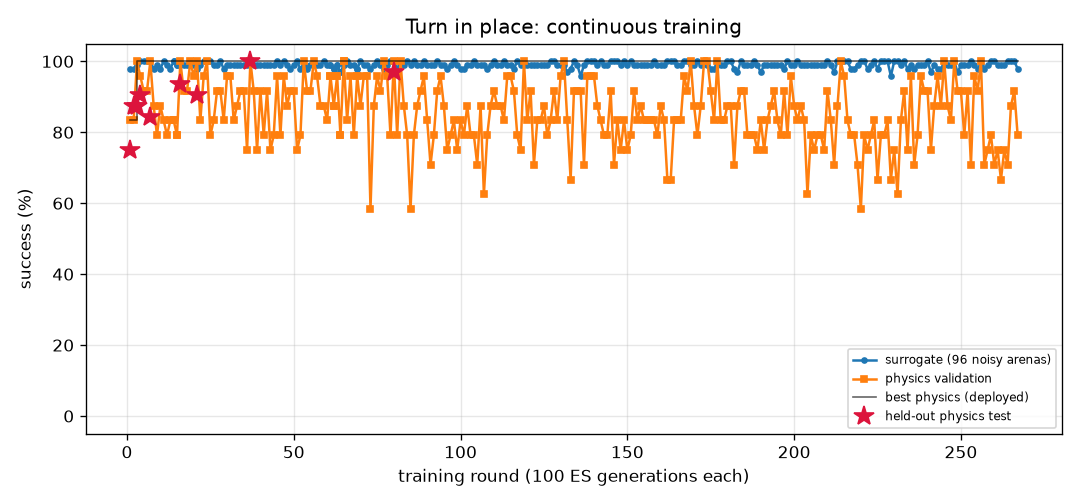
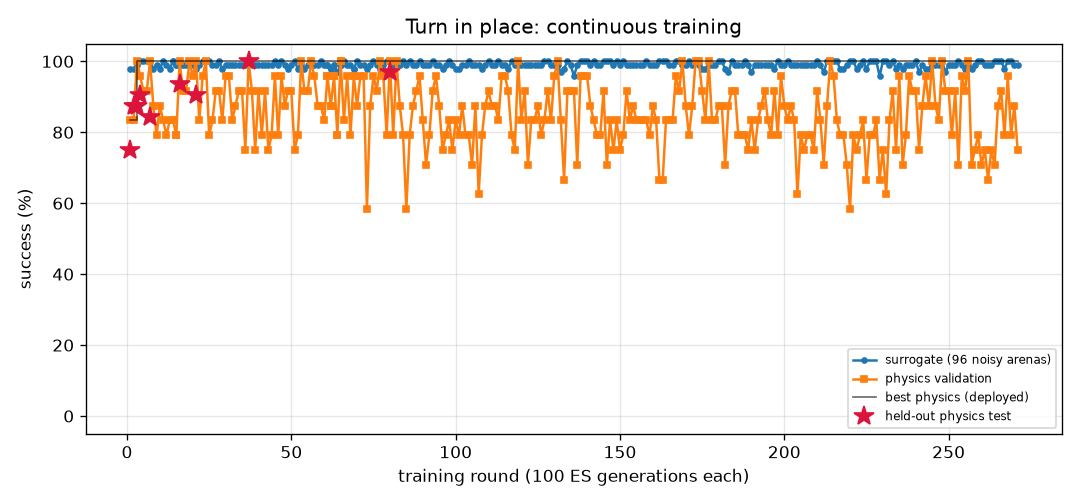
FlyLab: continuous training progress
- walk_forward: optimal, physics val 100% of 24, round 72
- turn: optimal, physics val 100% of 24, round 271
- goto: optimal, physics val 100% of 24, round 67
- odor_seek: optimal, physics val 100% of 24, round 81
- odor_avoid: optimal, physics val 100% of 24, round 366
- light_seek: optimal, physics val 100% of 24, round 249
- light_avoid: optimal, physics val 100% of 24, round 149

diff --git a/projects/09_flylab/training/odor_avoid/REPORT.md b/projects/09_flylab/training/odor_avoid/REPORT.md
@@ -1,14 +1,14 @@
 # Escape a bad smell (`odor_avoid`) — training report
 
-*Auto-generated by `train_brains.py`, last updated 2026-10-09T21:15:25.*
+*Auto-generated by `train_brains.py`, last updated 2026-10-09T22:04:06.*
 
 ![curve](curve.png)
 
 | | |
 |---|---|
-| rounds | 359 |
-| ES generations | 35900 |
-| physics runs | 5858 |
+| rounds | 366 |
+| ES generations | 36600 |
+| physics runs | 6058 |
 | status | **optimal** |
 | best brain | round 352: physics validation **100%** on 24 arenas, surrogate 98% |
 | held-out physics test | **100%** on 32 unseen arenas (95% CI 89%-100%) (errors: [61.0, 57.0, 61.4, 59.6, 56.8, 61.2, 61.2, 60.8, 57.0, 60.5, 60.6, 56.7, 59.9, 61.1, 61.5, 59.8, 60.1, 54.8, 60.0, 54.0, 61.3, 60.1, 57.6, 61.3, 59.5, 56.5, 55.1, 44.6, 56.4, 58.2, 60.2, 19.1]) |
@@ -17,13 +17,6 @@ Physics error per arena: mm gained away from source (> 6 without first approachi
 
 | round | level | gens | sigma | surrogate | physics val | val errors | test | note |
 |---:|---:|---:|---:|---:|---:|---|---:|---|
-| 320 | 3 | 32000 | 0.025 | 93% | 100% | [60.7, 59.0, 55.6, 56.8, 61.1, 57.6, 59.6, 8.3, 60.0, 58.6, 60.7, 61.0, 54.3, 55.4, 42.5, 60.4, 60.8, 59.6, 54.5, 54.4, 61.0, 35.5, 57.6, 30.8] |  |  |
-| 321 | 3 | 32100 | 0.028 | 95% | 96% | [60.5, 57.6, 54.1, 57.6, 59.6, 59.8, 58.8, 24.9, 60.1, 36.7, 57.6, 58.6, 50.2, 53.5, 34.6, 55.5, 58.8, 57.2, 48.2, 55.5, 58.2, 49.1, 57.9, 50.2] |  |  |
-| 322 | 3 | 32200 | 0.027 | 95% | 100% | [58.6, 54.4, 53.6, 58.5, 58.4, 58.0, 59.6, 57.2, 59.5, 58.4, 52.7, 58.5, 46.4, 51.6, 8.6, 58.7, 58.8, 57.3, 49.9, 57.3, 58.8, 57.0, 57.1, 58.3] |  |  |
-| 323 | 3 | 32300 | 0.027 | 93% | 96% | [58.9, 54.5, 53.5, 57.9, 55.3, 50.0, 59.8, 39.3, 60.0, 38.8, 3.3, 59.0, 49.4, 53.1, 28.3, 52.6, 58.5, 43.0, 50.1, 53.5, 59.1, 55.7, 57.3, 57.8] |  | restart from best |
-| 324 | 3 | 32400 | 0.025 | 95% | 96% | [60.3, 59.6, 55.6, 56.8, 54.6, 57.8, 60.5, 19.8, 61.5, 43.3, 8.9, 60.8, 51.8, 54.1, 19.0, 61.0, 61.1, 58.6, 52.5, 59.3, 61.1, 59.5, 59.7, 60.8] |  |  |
-| 325 | 3 | 32500 | 0.027 | 95% | 100% | [62.4, 56.9, 56.3, 59.6, 61.5, 61.9, 60.4, 60.8, 61.3, 61.5, 60.7, 61.3, 46.6, 56.9, 45.8, 61.7, 61.5, 61.9, 54.5, 59.5, 61.1, 61.7, 59.5, 61.9] |  |  |
-| 326 | 3 | 32600 | 0.027 | 96% | 96% | [63.0, 60.6, 57.5, 59.8, 61.5, 62.5, 60.7, 61.7, 61.5, 61.4, 61.0, 61.4, 53.4, 58.1, 43.0, 61.8, 61.7, 62.3, 54.7, 59.5, 61.5, 62.0, 59.6, 62.5] |  |  |
 | 327 | 3 | 32700 | 0.026 | 97% | 96% | [61.6, 55.4, 58.0, 58.7, 61.0, 62.5, 60.1, 60.1, 61.7, 61.6, 59.4, 60.0, 51.2, 56.6, 39.1, 61.5, 59.1, 61.6, 52.4, 55.6, 59.8, 61.9, 59.4, 61.7] |  | restart from best |
 | 328 | 3 | 32800 | 0.025 | 96% | 96% | [63.2, 61.2, 56.5, 59.1, 61.3, 62.5, 61.0, 56.4, 60.5, 62.1, 62.0, 61.8, 52.9, 56.5, 40.3, 61.8, 61.9, 62.2, 54.9, 61.0, 61.6, 61.3, 58.1, 61.6] |  |  |
 | 329 | 3 | 32900 | 0.026 | 94% | 100% | [63.1, 60.6, 54.1, 58.0, 59.1, 60.5, 62.0, 44.4, 60.2, 50.1, 48.9, 62.0, 47.9, 53.6, 35.2, 61.7, 61.5, 61.7, 51.0, 57.6, 61.4, 60.8, 55.8, 61.1] |  |  |
@@ -57,3 +50,10 @@ Physics error per arena: mm gained away from source (> 6 without first approachi
 | 357 | 3 | 35700 | 0.025 | 94% | 100% | [60.8, 60.5, 55.9, 59.4, 62.1, 61.8, 61.0, 61.5, 61.4, 50.8, 61.3, 61.4, 54.7, 56.4, 50.1, 61.3, 61.8, 61.1, 54.5, 59.5, 61.8, 62.3, 59.4, 61.7] |  |  |
 | 358 | 3 | 35800 | 0.028 | 96% | 96% | [60.6, 60.1, 55.6, 59.1, 61.0, 61.0, 60.5, 19.9, 61.6, 23.1, 56.4, 61.1, 51.0, 55.6, 26.9, 61.1, 61.0, 53.9, 51.1, 59.6, 61.6, 48.2, 56.5, 33.8] |  |  |
 | 359 | 3 | 35900 | 0.026 | 95% | 96% | [60.0, 59.7, 55.1, 59.6, 59.6, 58.4, 60.6, 60.4, 60.4, 59.2, 36.1, 60.4, 33.6, 52.4, 35.7, 53.5, 60.5, 59.7, 49.5, 59.4, 60.3, 60.1, 59.9, 60.4] |  |  |
+| 360 | 3 | 36000 | 0.027 | 99% | 96% | [58.2, 55.6, 54.2, 55.4, 58.9, 54.3, 58.1, 50.5, 58.8, 43.9, 30.6, 59.3, 47.8, 53.3, 39.6, 58.9, 59.3, 41.7, 51.3, 53.7, 59.1, 55.8, 52.1, 56.0] |  | restart from best |
+| 361 | 3 | 36100 | 0.025 | 96% | 100% | [62.4, 59.3, 56.5, 59.5, 62.1, 61.5, 60.6, 54.1, 61.1, 61.8, 60.7, 61.8, 55.1, 56.5, 51.1, 61.8, 61.6, 61.6, 55.1, 55.7, 61.6, 59.8, 58.1, 62.3] |  |  |
+| 362 | 3 | 36200 | 0.026 | 97% | 96% | [61.9, 60.6, 56.1, 61.0, 60.4, 61.0, 60.8, 60.3, 61.4, 61.5, 56.6, 61.1, 46.3, 53.0, 39.8, 61.1, 61.9, 61.7, 48.7, 60.4, 61.7, 61.8, 60.9, 61.7] |  |  |
+| 363 | 3 | 36300 | 0.026 | 97% | 96% | [62.0, 60.0, 56.4, 60.5, 62.1, 60.4, 60.0, 56.8, 61.8, 60.4, 59.8, 61.2, 51.0, 54.3, 46.5, 61.8, 61.8, 60.3, 53.8, 59.2, 61.8, 61.7, 59.4, 61.4] |  |  |
+| 364 | 3 | 36400 | 0.026 | 95% | 100% | [62.2, 60.0, 56.4, 58.5, 62.2, 61.8, 61.1, 60.2, 60.4, 61.0, 61.8, 61.5, 51.5, 56.4, 51.8, 62.1, 62.2, 62.3, 51.1, 56.8, 62.2, 61.8, 57.2, 52.7] |  | restart from best |
+| 365 | 3 | 36500 | 0.025 | 95% | 100% | [60.4, 60.0, 56.1, 60.0, 59.1, 59.9, 60.9, 59.1, 60.9, 50.8, 39.9, 60.9, 50.0, 51.7, 26.1, 60.3, 60.9, 60.8, 50.6, 57.8, 60.7, 60.2, 60.4, 60.3] | 97% |  |
+| 366 | 3 | 36600 | 0.025 | 96% | 96% | [61.9, 56.9, 55.8, 59.7, 60.5, 62.0, 60.7, 57.8, 61.3, 36.7, 58.6, 61.2, 51.6, 55.7, 27.9, 61.4, 61.5, 61.7, 55.3, 59.3, 61.6, 59.3, 59.5, 60.8] |  |  |

diff --git a/projects/09_flylab/training/light_avoid/REPORT.md b/projects/09_flylab/training/light_avoid/REPORT.md
@@ -1,14 +1,14 @@
 # Hide from light (`light_avoid`) — training report
 
-*Auto-generated by `train_brains.py`, last updated 2026-10-08T21:47:19.*
+*Auto-generated by `train_brains.py`, last updated 2026-10-09T22:11:09.*
 
 ![curve](curve.png)
 
 | | |
 |---|---|
-| rounds | 143 |
-| ES generations | 14300 |
-| physics runs | 3672 |
+| rounds | 149 |
+| ES generations | 14900 |
+| physics runs | 3816 |
 | status | **optimal** |
 | best brain | round 45: physics validation **100%** on 24 arenas, surrogate 100% |
 | held-out physics test | **100%** on 32 unseen arenas (95% CI 89%-100%) (errors: [14.4, 28.9, 31.6, 32.2, 31.9, 13.9, 14.5, 34.1, 33.7, 13.3, 14.0, 31.3, 31.1, 13.1, 32.4, 33.8, 32.9, 32.2, 31.7, 32.0, 29.0, 12.3, 31.9, 33.2, 14.2, 13.7, 33.6, 32.5, 33.2, 13.2, 28.1, 33.7]) |
@@ -17,12 +17,6 @@ Physics error per arena: mm gained away from source (> 6 without first approachi
 
 | round | level | gens | sigma | surrogate | physics val | val errors | test | note |
 |---:|---:|---:|---:|---:|---:|---|---:|---|
-| 104 | 3 | 10400 | 0.024 | 100% | 100% | [46.0, 47.2, 46.7, 47.3, 51.1, 46.4, 44.1, 14.5, 39.9, 13.3, 48.7, 50.9, 14.4, 47.2, 46.9, 46.9, 14.2, 50.3, 47.7, 14.4, 47.0, 48.9, 45.0, 50.9] |  |  |
-| 105 | 3 | 10500 | 0.024 | 100% | 100% | [56.6, 58.8, 58.6, 56.0, 56.3, 56.3, 57.9, 14.5, 51.2, 13.4, 57.0, 56.3, 14.4, 57.8, 58.7, 56.5, 14.2, 57.3, 58.8, 14.4, 54.6, 57.5, 57.6, 55.3] |  | restart from best |
-| 106 | 3 | 10600 | 0.024 | 100% | 100% | [49.7, 51.2, 50.8, 50.4, 51.0, 50.5, 49.6, 14.5, 38.6, 13.5, 49.1, 50.8, 14.4, 50.8, 51.0, 50.0, 14.2, 51.4, 51.4, 14.4, 48.6, 49.3, 49.3, 50.3] |  |  |
-| 107 | 3 | 10700 | 0.024 | 100% | 100% | [52.9, 55.1, 55.0, 53.5, 54.3, 52.1, 53.9, 14.5, 47.7, 13.4, 53.3, 54.1, 14.3, 54.6, 55.1, 52.2, 14.2, 54.8, 55.4, 14.4, 51.2, 53.4, 53.7, 53.5] |  |  |
-| 108 | 3 | 10800 | 0.024 | 100% | 100% | [42.1, 41.0, 40.4, 41.9, 42.8, 40.4, 39.0, 14.5, 38.5, 13.1, 40.0, 43.0, 14.4, 41.1, 41.1, 42.3, 14.2, 43.2, 41.7, 14.4, 42.2, 40.2, 38.5, 43.7] |  |  |
-| 109 | 3 | 10900 | 0.024 | 100% | 100% | [43.3, 45.2, 44.7, 45.5, 48.9, 45.0, 42.1, 14.5, 43.5, 13.1, 44.5, 49.3, 14.4, 45.8, 44.9, 43.8, 14.2, 48.6, 45.0, 14.4, 41.9, 45.0, 41.9, 48.9] |  | restart from best |
 | 110 | 3 | 11000 | 0.024 | 100% | 100% | [42.6, 43.2, 42.9, 43.3, 44.7, 43.6, 40.7, 14.5, 40.6, 13.4, 43.5, 44.8, 14.4, 42.3, 42.6, 44.5, 14.2, 44.8, 43.0, 14.4, 41.5, 43.4, 41.3, 44.4] |  |  |
 | 111 | 3 | 11100 | 0.024 | 99% | 100% | [31.3, 30.8, 30.5, 31.1, 33.2, 31.6, 28.8, 14.5, 12.7, 13.3, 31.4, 33.3, 14.4, 30.9, 30.6, 32.4, 14.2, 32.2, 31.8, 14.4, 31.3, 30.1, 28.3, 32.7] |  |  |
 | 112 | 3 | 11200 | 0.025 | 99% | 100% | [31.8, 31.0, 30.7, 31.1, 33.7, 31.5, 28.2, 14.5, 13.0, 13.4, 9.9, 33.8, 14.4, 31.9, 30.5, 32.1, 14.2, 34.1, 31.4, 14.4, 31.9, 10.8, 28.3, 34.2] |  |  |
@@ -57,3 +51,9 @@ Physics error per arena: mm gained away from source (> 6 without first approachi
 | 141 | 3 | 14100 | 0.024 | 100% | 100% | [45.3, 46.4, 45.0, 47.3, 49.4, 45.0, 43.8, 14.5, 46.2, 13.5, 48.8, 49.8, 14.4, 49.3, 46.0, 46.4, 14.2, 49.4, 46.3, 14.4, 44.5, 48.4, 42.8, 49.7] |  | restart from best |
 | 142 | 3 | 14200 | 0.024 | 100% | 100% | [46.6, 48.0, 47.9, 47.7, 50.6, 46.9, 46.0, 14.5, 49.5, 11.3, 50.6, 50.7, 14.4, 50.4, 48.0, 47.8, 14.2, 50.5, 48.2, 14.4, 46.2, 50.9, 46.2, 50.7] |  |  |
 | 143 | 3 | 14300 | 0.024 | 100% | 100% | [54.8, 56.8, 56.4, 54.9, 56.5, 55.4, 55.2, 14.5, 51.3, 13.2, 55.8, 56.3, 14.4, 55.9, 56.6, 55.4, 14.2, 57.0, 57.0, 14.4, 54.5, 55.9, 55.0, 55.8] |  |  |
+| 144 | 3 | 14400 | 0.024 | 100% | 100% | [33.7, 31.8, 31.8, 34.0, 35.4, 34.1, 30.7, 14.5, 34.1, 13.3, 33.5, 36.2, 14.4, 33.2, 32.9, 34.4, 14.2, 35.1, 33.5, 14.4, 32.3, 33.6, 29.9, 33.9] |  |  |
+| 145 | 3 | 14500 | 0.024 | 100% | 100% | [44.2, 44.3, 43.6, 44.3, 47.6, 44.5, 41.7, 14.5, 44.3, 13.4, 45.7, 47.7, 14.4, 46.1, 43.9, 45.8, 14.2, 47.2, 44.7, 14.4, 44.9, 44.8, 42.0, 47.7] |  | restart from best |
+| 146 | 3 | 14600 | 0.024 | 100% | 96% | [36.8, 37.0, 36.0, 37.5, 39.3, 36.1, 34.5, 14.5, 35.6, 31.4, 37.2, 39.5, 14.4, 37.3, 37.5, 37.6, 14.2, 39.5, 37.8, 14.4, 35.5, 38.0, 34.0, 40.0] |  |  |
+| 147 | 3 | 14700 | 0.024 | 100% | 100% | [37.9, 38.5, 38.1, 39.9, 42.4, 39.4, 36.4, 14.5, 37.4, 13.2, 39.5, 42.7, 14.4, 40.5, 38.3, 38.9, 14.2, 41.4, 39.8, 14.4, 36.9, 39.4, 36.1, 42.5] |  |  |
+| 148 | 3 | 14800 | 0.024 | 100% | 100% | [56.6, 61.0, 60.8, 58.1, 60.3, 57.8, 59.6, 14.5, 56.8, 12.9, 60.1, 60.2, 14.4, 57.6, 61.0, 57.1, 14.2, 60.9, 61.3, 14.4, 57.1, 59.9, 59.5, 59.5] |  |  |
+| 149 | 3 | 14900 | 0.024 | 100% | 100% | [56.0, 60.9, 60.6, 57.5, 60.8, 57.8, 59.4, 14.5, 54.0, 12.9, 58.2, 60.6, 14.4, 59.6, 60.7, 56.0, 14.2, 60.9, 61.3, 14.4, 56.3, 58.1, 59.0, 60.0] |  | restart from best |

diff --git a/projects/09_flylab/training/turn/REPORT.md b/projects/09_flylab/training/turn/REPORT.md
@@ -1,14 +1,14 @@
 # Turn in place (`turn`) — training report
 
-*Auto-generated by `train_brains.py`, last updated 2026-10-09T21:17:22.*
+*Auto-generated by `train_brains.py`, last updated 2026-10-09T21:36:14.*
 
 ![curve](curve.png)
 
 | | |
 |---|---|
-| rounds | 267 |
-| ES generations | 26700 |
-| physics runs | 6654 |
+| rounds | 271 |
+| ES generations | 27100 |
+| physics runs | 6750 |
 | status | **optimal** |
 | best brain | round 80: physics validation **100%** on 24 arenas, surrogate 100% |
 | held-out physics test | **97%** on 32 unseen arenas (95% CI 84%-99%) (errors: [1.6, 3.3, 6.3, 3.7, 1.1, 0.4, 2.4, 2.9, 0.1, 2.6, 0.5, 2.7, 1.5, 3.1, 4.5, 0.2, 0.5, 1.1, 2.0, 4.4, 2.8, 3.2, 0.3, 2.2, 0.5, 3.0, 0.3, 5.4, 0.4, 1.0, 4.7, 10.7]) |
@@ -17,10 +17,6 @@ Physics error per arena: deg from target heading (< 20 = success).
 
 | round | level | gens | sigma | surrogate | physics val | val errors | test | note |
 |---:|---:|---:|---:|---:|---:|---|---:|---|
-| 228 | 3 | 22800 | 0.024 | 100% | 83% | [0.5, 1.8, 5.8, 2.0, 2.1, 1.9, 7.4, 8.8, 8.0, 1.2, 2.8, 1.5, 0.4, 0.2, 2.5, 4.1, 1.6, 3.6, 2.8, 2.1, 4.3, 0.1, 7.1, 6.7] |  | restart from best |
-| 229 | 3 | 22900 | 0.024 | 96% | 67% | [7.0, 0.3, 4.4, 1.0, 13.8, 0.1, 6.7, 8.3, 4.4, 0.2, 4.9, 1.9, 0.2, 1.9, 5.9, 0.9, 1.4, 2.6, 1.1, 1.4, 8.5, 1.8, 4.6, 7.8] |  |  |
-| 230 | 3 | 23000 | 0.026 | 100% | 75% | [1.0, 1.3, 2.3, 0.9, 2.2, 4.1, 6.3, 8.9, 6.5, 2.6, 4.7, 2.9, 0.8, 0.3, 5.2, 3.8, 3.2, 2.9, 5.0, 1.2, 1.6, 0.2, 6.9, 6.8] |  |  |
-| 231 | 3 | 23100 | 0.024 | 100% | 62% | [3.4, 3.0, 5.5, 1.6, 0.1, 2.7, 5.6, 2.1, 6.2, 14.9, 5.0, 0.3, 2.7, 1.6, 5.2, 0.6, 0.6, 2.3, 0.9, 1.1, 2.7, 0.8, 7.1, 8.5] |  |  |
 | 232 | 3 | 23200 | 0.024 | 99% | 83% | [9.2, 10.9, 0.8, 1.2, 3.4, 0.3, 2.5, 2.8, 2.3, 2.6, 2.4, 2.0, 2.0, 2.2, 2.5, 0.2, 2.6, 1.6, 2.5, 2.7, 7.5, 1.6, 3.1, 5.1] |  | restart from best |
 | 233 | 3 | 23300 | 0.024 | 100% | 92% | [8.6, 8.7, 7.6, 4.6, 4.2, 0.5, 2.2, 0.1, 3.8, 1.3, 2.9, 1.8, 1.1, 0.8, 2.2, 0.6, 2.0, 0.8, 2.0, 2.2, 4.0, 0.3, 3.1, 1.7] |  |  |
 | 234 | 3 | 23400 | 0.024 | 98% | 75% | [5.6, 8.7, 5.2, 3.2, 0.1, 4.3, 6.0, 2.3, 3.9, 1.0, 3.8, 0.4, 1.6, 1.5, 3.7, 0.6, 0.5, 1.7, 1.4, 1.8, 4.7, 1.1, 3.0, 2.1] |  |  |
@@ -57,3 +53,7 @@ Physics error per arena: deg from target heading (< 20 = success).
 | 265 | 3 | 26500 | 0.024 | 100% | 88% | [4.7, 5.3, 0.8, 0.5, 10.3, 0.4, 6.1, 2.2, 5.3, 1.3, 4.1, 0.9, 3.3, 1.6, 4.0, 1.7, 0.9, 0.5, 1.0, 0.0, 6.9, 0.5, 4.8, 5.6] |  |  |
 | 266 | 3 | 26600 | 0.024 | 100% | 92% | [3.3, 4.2, 3.6, 0.9, 1.4, 2.5, 4.9, 4.9, 5.0, 1.9, 4.3, 0.2, 0.1, 2.1, 4.2, 1.6, 0.5, 2.4, 0.1, 0.8, 5.3, 0.9, 5.3, 2.4] |  |  |
 | 267 | 3 | 26700 | 0.024 | 98% | 79% | [7.2, 11.3, 7.3, 1.5, 4.2, 4.9, 2.0, 4.4, 3.8, 3.0, 1.7, 4.7, 3.9, 5.6, 1.4, 3.1, 4.8, 1.5, 0.9, 4.4, 9.3, 0.4, 2.1, 1.3] |  |  |
+| 268 | 3 | 26800 | 0.025 | 100% | 96% | [7.9, 9.1, 3.8, 5.6, 2.6, 4.2, 1.6, 0.4, 0.6, 3.3, 2.0, 2.7, 0.2, 3.8, 0.5, 2.7, 2.9, 2.1, 3.8, 2.8, 7.3, 0.6, 0.1, 7.2] |  | restart from best |
+| 269 | 3 | 26900 | 0.024 | 100% | 79% | [5.0, 2.6, 0.6, 1.2, 1.3, 1.6, 5.0, 0.7, 5.6, 1.9, 4.2, 0.3, 0.5, 1.7, 4.0, 0.9, 0.1, 0.5, 0.3, 0.6, 5.3, 2.8, 5.5, 5.2] |  |  |
+| 270 | 3 | 27000 | 0.024 | 99% | 88% | [6.5, 6.9, 3.9, 2.3, 3.4, 5.1, 5.3, 2.2, 3.7, 0.1, 3.3, 0.9, 2.0, 1.8, 4.2, 0.9, 0.6, 0.2, 0.7, 1.0, 4.7, 0.3, 5.5, 5.9] |  |  |
+| 271 | 3 | 27100 | 0.025 | 99% | 75% | [10.0, 7.6, 1.9, 1.1, 5.2, 3.1, 5.3, 8.0, 5.2, 13.6, 5.8, 2.0, 0.3, 2.1, 5.6, 2.2, 1.3, 2.2, 12.2, 1.0, 7.2, 1.0, 5.6, 8.6] |  |  |

diff --git a/projects/09_flylab/training/TRAINING.md b/projects/09_flylab/training/TRAINING.md
@@ -1,15 +1,15 @@
 # FlyLab brains — continuous training log
 
-*Auto-generated by `train_brains.py`, last updated 2026-10-09T21:17:22.*
+*Auto-generated by `train_brains.py`, last updated 2026-10-09T22:11:10.*
 
 Every skill has its own brain and its own training process: surrogate ES rounds, physics validation in MuJoCo, keep-the-best selection, and a held-out physics test that is never used for selection. See each skill's report for its full round-by-round history. Mastery is progressive: passing a level (100% physics validation, >=95% surrogate) doubles the validation and test arena sets; a brain is **optimal** once it holds up at level 3 (>=95% of 24 validation arenas) AND scores >=90% on the 32 held-out test arenas. Test columns show 95% Wilson confidence intervals.
 
 | skill | rounds | ES generations | physics runs | surrogate | physics val | **physics test** | status |
 |---|---:|---:|---:|---:|---:|---:|---|
 | [Walk forward](walk_forward/REPORT.md) | 72 | 7200 | 1678 | 100% | 100% of 24 | 100% of 32 (CI 89-100%) | **optimal** |
-| [Turn in place](turn/REPORT.md) | 267 | 26700 | 6654 | 100% | 100% of 24 | 97% of 32 (CI 84-99%) | **optimal** |
+| [Turn in place](turn/REPORT.md) | 271 | 27100 | 6750 | 100% | 100% of 24 | 97% of 32 (CI 84-99%) | **optimal** |
 | [Go to a location](goto/REPORT.md) | 67 | 6700 | 1398 | 100% | 100% of 24 | 100% of 32 (CI 89-100%) | **optimal** |
 | [Find food by smell](odor_seek/REPORT.md) | 81 | 8100 | 1246 | 100% | 100% of 24 | 100% of 32 (CI 89-100%) | **optimal** |
-| [Escape a bad smell](odor_avoid/REPORT.md) | 359 | 35900 | 5858 | 98% | 100% of 24 | 100% of 32 (CI 89-100%) | **optimal** |
+| [Escape a bad smell](odor_avoid/REPORT.md) | 366 | 36600 | 6058 | 98% | 100% of 24 | 100% of 32 (CI 89-100%) | **optimal** |
 | [Walk toward light](light_seek/REPORT.md) | 249 | 24900 | 2728 | 100% | 100% of 24 | 100% of 32 (CI 89-100%) | **optimal** |
-| [Hide from light](light_avoid/REPORT.md) | 143 | 14300 | 3672 | 100% | 100% of 24 | 100% of 32 (CI 89-100%) | **optimal** |
+| [Hide from light](light_avoid/REPORT.md) | 149 | 14900 | 3816 | 100% | 100% of 24 | 100% of 32 (CI 89-100%) | **optimal** |
